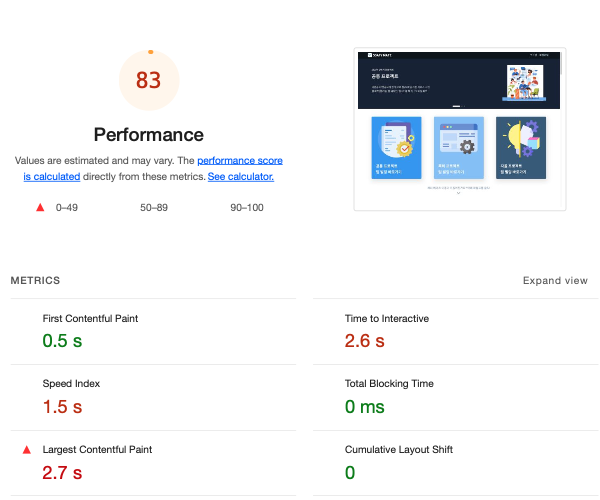
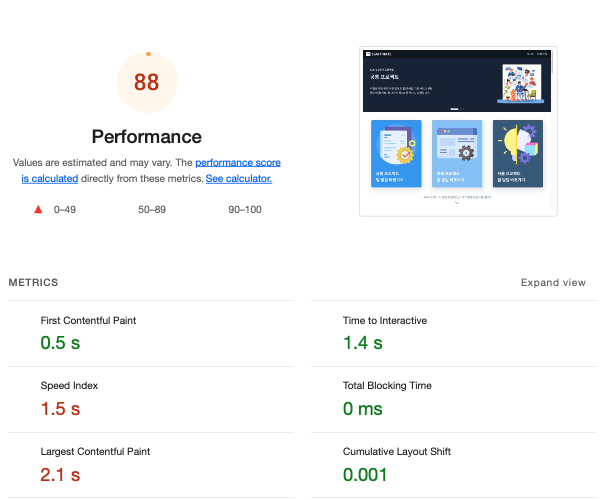
Docs : 웹 성능 최적화 부분 내용 업데이트

diff --git a/README.md b/README.md
@@ -70,7 +70,7 @@
 
 |   버전   | <div align="center">업데이트 내용</div>                                                                                                                                                                                                                                                                                                                                         | 업데이트 날짜 |
 | :------: | :------------------------------------------------------------------------------------------------------------------------------------------------------------------------------------------------------------------------------------------------------------------------------------------------------------------------------------------------------------------------------ | :-----------: |
-| `v1.2.6` | - 채팅 페이지 로직 수정<br />- 웹 성능 최적화(Code Splitting 적용)<br />                                                                                                                                                                                                                                                                                                        |   22.03.17.   |
+| `v1.2.6` | - 채팅 서비스 로직 수정<br />- 웹 성능 최적화(Code Splitting 적용)<br />                                                                                                                                                                                                                                                                                                        |   22.03.17.   |
 | `v1.2.5` | - 홈 배너 애니메이션 파일들을 기본 이미지 파일로 교체<br />- 프로젝트 트랙 소개 배너 mp4 파일들을 webp 파일 형식으로 교체<br />- 페이지 헤딩 처리 개편                                                                                                                                                                                                                          |   22.03.16.   |
 | `v1.2.4` | - 프로젝트 트랙 소개 배너 gif 파일 mp4 파일로 변경<br />- 서비스 Description 수정<br />- 서비스 로고 이미지 최적화                                                                                                                                                                                                                                                              |   22.03.14.   |
 | `v1.2.3` | - 채팅 서버 URL 수정                                                                                                                                                                                                                                                                                                                                                            |   22.03.07.   |
@@ -195,7 +195,7 @@
 
 ### 웹 성능 최적화
 
-|                                              웹 성능 최적화 전                                              |                                     웹 성능 최적화 후 (22.03.16. 기준)                                     |
+|                                              웹 성능 최적화 전                                              |                                     웹 성능 최적화 후 (22.03.17. 기준)                                     |
 | :---------------------------------------------------------------------------------------------------------: | :--------------------------------------------------------------------------------------------------------: |
 | <img src="./readme_assets/before-web-optimization.png" alt="웹 성능 최적화 전 분석 이미지" width="500px" /> | <img src="./readme_assets/after-web-optimization.png" alt="웹 성능 최적화 후 분석 이미지" width="500px" /> |
 
@@ -205,8 +205,9 @@
   - 뷰포트에 따른 여러 버전의 이미지 제공
 - gif 파일들을 webp, png 파일들로 교체
 - 불필요한 JS 파일 제거
+- '코드 분할(Code Splitting)' 적용
 
-> 위의 작업들을 통해 Performance Score 62점 → 83점으로 개선, Speed Index 속도 3.5초 → 1.5초로 개선
+> 위의 작업들을 통해 Performance Score 62점 → 88점으로 개선, Speed Index 속도 3.5초 → 1.5초로 개선
 
 <br />
 
@@ -318,7 +319,7 @@
 | 조원빈 | Back-end<br />팀장 | - DB 설계<br />- Spring Data JPA 세팅<br />&nbsp;&nbsp;&nbsp;&nbsp;- 채팅 도메인 개발<br />&nbsp;&nbsp;&nbsp;&nbsp;- 로그인 도메인 개발<br />- TypeScript, Nest.js와 Socket.io를 이용한 실시간 채팅 서버 구현<br />&nbsp;&nbsp;&nbsp;&nbsp;- 웹소켓 연결<br />&nbsp;&nbsp;&nbsp;&nbsp;- 1대1 실시간 채팅 구현<br />- JWT를 이용한 토큰 생성 구현<br />- 채팅 서버 EC2 배포<br />- crontab 이용한 Linux mysql DB 백업 스케줄러 작동<br />- 'ssafymate.site' 도메인 적용                                                                                                                                                                                                                                                                                                                                                                                                                                                                                                                                                                                                                   |
 | 손영배 |      Back-end      | - DB 설계<br />- Spring Boot로 RESTful API 작성<br />&nbsp;&nbsp;&nbsp;&nbsp;- 로그인 도메인 개발<br />&nbsp;&nbsp;&nbsp;&nbsp;- 회원가입 도메인 개발<br />&nbsp;&nbsp;&nbsp;&nbsp;- 아이디 찾기 도메인 개발<br />&nbsp;&nbsp;&nbsp;&nbsp;- 비밀번호 재설정 도메인 개발<br />&nbsp;&nbsp;&nbsp;&nbsp;- 회원 정보 조회 및 수정 도메인 개발<br />- SMTP Server, Redis를 이용한 이메일 인증 기능 구현<br />- 스프링 시큐리티, JWT를 이용한 인증 구현<br />- EC2 인프라 환경 세팅<br />- 프론트엔드, 백엔드 EC2 배포<br />- Github Action, Jenkins, Docker를 활용한 CI/CD<br />- Letsencrypt, Certbot을 이용한 서비스 SSL 보안 적용<br />- Nginx 웹서버 적용(Load Balancing, Reverse Proxy, Service Redirect 설정)                                                                                                                                                                                                                                                                                                                                                                           |
 | 이정훈 |      Back-end      | - DB 설계<br />&nbsp;&nbsp;&nbsp;&nbsp;- 기술 스택 데이터 전처리<br />&nbsp;&nbsp;&nbsp;&nbsp;- 교육생 인증 데이터 전처리<br />- 서버에 기술 스택 이미지 업로드<br />- Spring Boot로 RESTful API 작성<br />&nbsp;&nbsp;&nbsp;&nbsp;- 기술 스택 조회 서비스 도메인 개발<br />&nbsp;&nbsp;&nbsp;&nbsp;- 팀 생성/수정/삭제 서비스 도메인 개발<br />&nbsp;&nbsp;&nbsp;&nbsp;- 팀 상세보기 서비스 도메인 개발<br />&nbsp;&nbsp;&nbsp;&nbsp;- 팀 탈퇴 서비스 도메인 개발<br />&nbsp;&nbsp;&nbsp;&nbsp;- 팀 리스트 검색 서비스 도메인 개발<br />&nbsp;&nbsp;&nbsp;&nbsp;- 팀 합류/지원 요청 서비스 도메인 개발<br />&nbsp;&nbsp;&nbsp;&nbsp;- 팀 합류/지원 메세지 조회 서비스 도메인 개발<br />&nbsp;&nbsp;&nbsp;&nbsp;- 팀 합류/지원 요청 응답 서비스 도메인 개발<br />&nbsp;&nbsp;&nbsp;&nbsp;- 교육생 상세보기 서비스 도메인 개발<br />&nbsp;&nbsp;&nbsp;&nbsp;- 교육생 리스트 검색 서비스 도메인 개발<br />&nbsp;&nbsp;&nbsp;&nbsp;- 교육생 프로젝트 트랙 선택 서비스 도메인 개발<br />&nbsp;&nbsp;&nbsp;&nbsp;- 참여 중인 팀 조회 서비스 도메인 개발                                       |
-| 박정환 |     Front-end      | - '싸피 메이트' 서비스 기획<br />- 서비스 메인 홈 페이지 개발<br />- 팀 공고, 교육생 공고 정보 제공 및 검색 서비스 개발<br />- 팀 생성 · 수정 · 삭제 · 탈퇴 서비스 개발<br />- 팀 합류 요청 및 팀 지원 요청 서비스 개발<br />- 404 Not Found 페이지 개발<br />- 팀, 교육생 공고 목록 페이지, 상세 정보 페이지의 Skeleton UI 구현<br />- 'Redux', 'React-Query'를 이용한 상태관리<br />- 'Emotion'을 이용한 CSS-in-JS 방식으로 스타일링 구현 <br />- 'Media Query'와 'React-Responsive'를 이용한 반응형 웹 구현<br />- 검색 엔진 최적화(SEO) 작업<br />&nbsp;&nbsp;&nbsp;&nbsp;- Meta Data들을 설정하고 체계화된 Heading 처리 및 시멘틱 마크업 사용,<br />&nbsp;&nbsp;&nbsp;&nbsp;- SEO Score 100점 달성<br />- 웹 성능 최적화 작업<br />&nbsp;&nbsp;&nbsp;&nbsp;- 'Lazy Loading' 적용<br />&nbsp;&nbsp;&nbsp;&nbsp;- 이미지 파일 최적화 등을 통해 웹 성능 최적화 진행<br />&nbsp;&nbsp;&nbsp;&nbsp;- Performance Score 62점 → 83점으로 개선<br />&nbsp;&nbsp;&nbsp;&nbsp;- Speed Index 속도 3.5초 → 1.5초로 개선<br />- 'Mock Service Worker'를 이용해 목업 API 구현하여 API 테스트 진행 |
+| 박정환 |     Front-end      | - '싸피 메이트' 서비스 기획<br />- 서비스 메인 홈 페이지 개발<br />- 팀 공고, 교육생 공고 정보 제공 및 검색 서비스 개발<br />- 팀 생성 · 수정 · 삭제 · 탈퇴 서비스 개발<br />- 팀 합류 요청 및 팀 지원 요청 서비스 개발<br />- 404 Not Found 페이지 개발<br />- 팀, 교육생 공고 목록 페이지, 상세 정보 페이지의 Skeleton UI 구현<br />- 'Redux', 'React-Query'를 이용한 상태관리<br />- 'Emotion'을 이용한 CSS-in-JS 방식으로 스타일링 구현 <br />- 'Media Query'와 'React-Responsive'를 이용한 반응형 웹 구현<br />- 검색 엔진 최적화(SEO) 작업<br />&nbsp;&nbsp;&nbsp;&nbsp;- Meta Data들을 설정하고 체계화된 Heading 처리 및 시멘틱 마크업 사용,<br />&nbsp;&nbsp;&nbsp;&nbsp;- SEO Score 100점 달성<br />- 웹 성능 최적화 작업<br />&nbsp;&nbsp;&nbsp;&nbsp;- 'Lazy Loading' 적용<br />&nbsp;&nbsp;&nbsp;&nbsp;- 이미지 파일 최적화 등을 통해 웹 성능 최적화 진행<br />&nbsp;&nbsp;&nbsp;&nbsp;- Performance Score 62점 → 88점으로 개선<br />&nbsp;&nbsp;&nbsp;&nbsp;- Speed Index 속도 3.5초 → 1.5초로 개선<br />- 'Mock Service Worker'를 이용해 목업 API 구현하여 API 테스트 진행 |
 | 소정은 |     Front-end      | - Emotion을 이용한 CSS-in-JS 방식으로 스타일링 작업<br />- Media Query를 이용한 반응형 UI 설계<br />&nbsp;&nbsp;&nbsp;&nbsp;- MUI를 이용해 모바일, 태블릿 등의 뷰포트에 따른 채팅 목록 Drawer 적용<br />- Custom hook을 이용한 채팅 입력 상태 관리<br />- Socket.io를 이용한 WebRTC 채팅 구현<br />&nbsp;&nbsp;&nbsp;&nbsp;- 1:1 실시간 채팅 구현, 메시지 주고 받기<br />&nbsp;&nbsp;&nbsp;&nbsp;- Socket의 namespace를 나누어 사용자가 타인의 채팅방에 접속하는 것 제한<br />&nbsp;&nbsp;&nbsp;&nbsp;- Socket으로 로그인, 로그아웃 상태를 전달해 접속 중인 사용자의 온라인 상태 동기화<br />- SWR을 이용한 채팅 목록, 채팅 내역 상태 관리 및 비동기 API 처리<br />&nbsp;&nbsp;&nbsp;&nbsp;- 채팅 내역 스크롤 이동에 따른 데이터 페이징 API 처리, 무한 스크롤링 구현<br />- Mock Service Worker를 이용해 목업 API 구현하여 백엔드 API 설계 이전 API 테스팅 진행                                                                                                                                                                                                                          |
 | 이여진 |     Front-end      | - 회원가입 서비스 개발<br />&nbsp;&nbsp;&nbsp;&nbsp;- React-hook-form 을 이용한 회원가입 form 관리<br />&nbsp;&nbsp;&nbsp;&nbsp;- 이메일 인증을 통한 회원가입 구현<br />- 로그인<br />&nbsp;&nbsp;&nbsp;&nbsp;- Redux, Redux Saga를 통한 회원 정보 상태 관리<br />- 회원 정보 수정 서비스 개발<br />&nbsp;&nbsp;&nbsp;&nbsp;- React custom hook 사용<br />&nbsp;&nbsp;&nbsp;&nbsp;- Redux, Redux-Saga를 통한 회원 정보 상태 관리<br />- Redux를 통한 전역 Alert 서비스 개발<br />- 아이디찾기, 비밀번호 재설정 서비스 개발<br />- 입력값에 대한 유효성 검사를 통해 불필요한 통신 최소화<br />- Emotion을 이용한 CSS-in-JS 방식으로 스타일링 작업<br />- 미디어 쿼리를 이용한 반응형 구현<br />- Mock Service Worker를 이용해 목업 API 구현하여 백엔드 API 설계 이전 API 테스팅 진행                                                                                                                                                                                                                                                                                                      |
 
